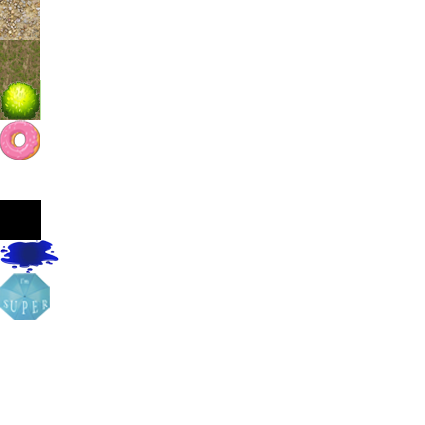
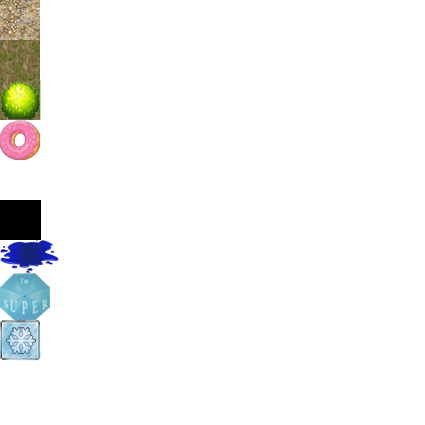
доработана заморозка главного героя

Changed region(s): [[0.0, 0.7341, 0.0918, 0.8565]]

diff --git a/Game/Game/player.cpp b/Game/Game/player.cpp
@@ -35,6 +35,15 @@ CPlayer::CPlayer(sf::Vector2f position) :
 
 
 
+	auto positionSpriteFreeze = sf::Vector2f(0, 320);
+
+
+	m_textureFreeze.loadFromImage(m_imageProtection);
+
+	m_spriteFreeze.setTexture(m_textureFreeze);
+	m_spriteFreeze.setTextureRect(sf::IntRect(static_cast<int>(positionSpriteFreeze.x), static_cast<int>(positionSpriteFreeze.y), 40, 40));
+
+
 	auto positionSprite = sf::Vector2f(0, 120);
 
 
@@ -106,7 +115,7 @@ void CPlayer::Update(float time)
 	{
 		m_delta /= 1.014f;
 	}
-	else
+	else if (!m_freeze)
 	{
 		m_sprite.setTextureRect(sf::IntRect(40, 40 * static_cast<int>(m_currentFrame), 40, 40));
 	}
@@ -152,6 +161,11 @@ sf::Sprite CPlayer::GetSpriteProtection() const
 	return m_spriteProtection;
 }
 
+sf::Sprite CPlayer::GetSpriteFreeze() const
+{
+	return m_spriteFreeze;
+}
+
 void CPlayer::InitClock()
 {
 	m_clock.restart();
@@ -168,12 +182,14 @@ void CPlayer::Freezing()
 {
 	if (m_freeze)
 	{
+		m_spriteFreeze.setPosition(m_position.x, m_position.y);
 		m_delta = 0;
-		if (m_time >= 3)
+		if (m_time >= 2)
 		{
 			m_clock.restart();
 			m_freeze = false;
 			m_delta = -0.1f;
+			m_offset.x = 0;
 		}
 		m_time = static_cast<unsigned>(m_clock.getElapsedTime().asSeconds());
 	}
@@ -196,6 +212,11 @@ void CPlayer::UpdateTotal(int dTotal)
 	{
 		m_total = 0;
 	}
+}
+
+bool CPlayer::IsFreeze() const
+{
+	return m_freeze;
 }
 
 CPlayer::~CPlayer()

diff --git a/Game/Game/player.h b/Game/Game/player.h
@@ -31,6 +31,7 @@ public:
 	void SetSpeed();
 
 	sf::Sprite GetSpriteProtection()const;
+	sf::Sprite GetSpriteFreeze()const;
 
 	void InitClock();
 	void SetDelay();
@@ -40,6 +41,8 @@ public:
 
 	int GetTotal();
 	void UpdateTotal(int);
+
+	bool IsFreeze()const;
 
 	~CPlayer();
 private:
@@ -55,6 +58,9 @@ private:
 	sf::Image m_imageProtection;
 	sf::Texture m_textureProtection;
 	sf::Sprite m_spriteProtection;
+
+	sf::Texture m_textureFreeze;
+	sf::Sprite m_spriteFreeze;
 
 
 	sf::Clock m_clock;

diff --git a/Game/Game/Game.cpp b/Game/Game/Game.cpp
@@ -104,6 +104,11 @@ void Display(RenderWindow &window, CPlayer &player, View &view, Level & level, s
 		window.draw(player.GetSpriteProtection());
 	}
 
+	if (player.IsFreeze())
+	{
+		window.draw(player.GetSpriteFreeze());
+	}
+
 	window.draw(frame.spriteFrame);
 	window.draw(frame.text);
 

diff --git a/Game/Game/BlackCat.cpp b/Game/Game/BlackCat.cpp
@@ -13,7 +13,7 @@ void CBlackCat::CheckCollision(float dx, float dy)
 
 		if (GetRect().intersects(m_obj[i].rect) && (m_obj[i].name == "collision"))
 		{
-			if (dx > 0)
+			if (dx < 0)
 			{
 				m_position.x = m_obj[i].rect.left - 40;
 				m_isCollision = true;
